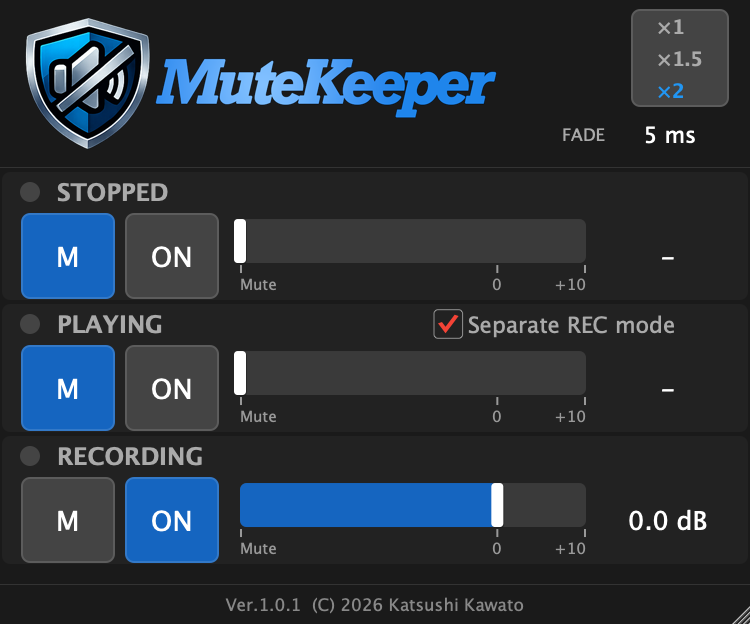
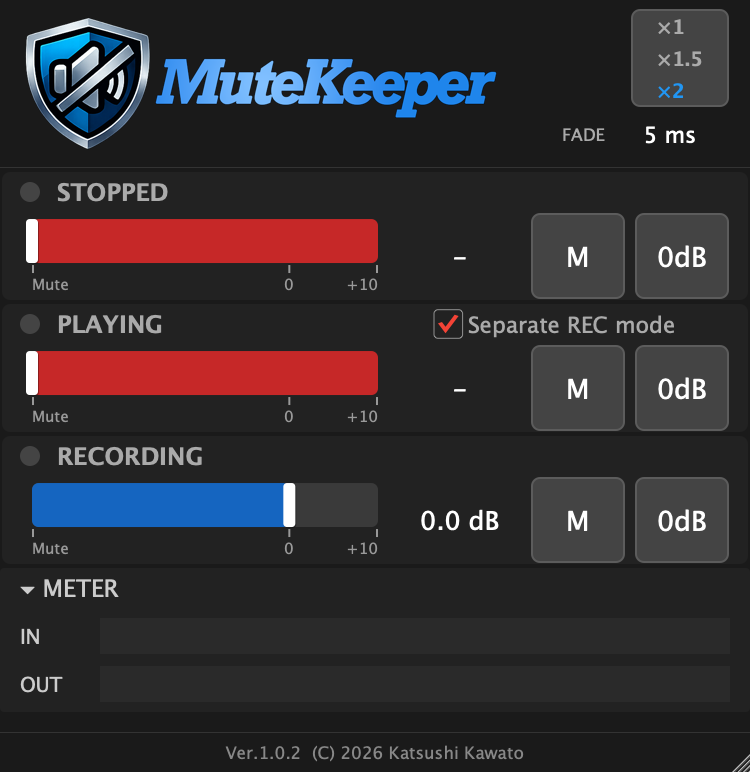
docs: sync site from MuteKeeper-dev

diff --git a/site/overrides/main.html b/site/overrides/main.html
@@ -17,8 +17,8 @@
     },
     "license": "https://opensource.org/licenses/MIT",
     "url": "https://kawato3.github.io/MuteKeeper/",
-    "downloadUrl": "https://github.com/kawato3/MuteKeeper/releases/tag/v1.0.1",
-    "softwareVersion": "1.0.1",
+    "downloadUrl": "https://github.com/kawato3/MuteKeeper/releases/tag/v1.0.2",
+    "softwareVersion": "1.0.2",
     "author": {
       "@type": "Person",
       "name": "Katsushi Kawato"

diff --git a/site/index.en.md b/site/index.en.md
@@ -9,8 +9,8 @@ description: "Free VST3/AUv3 plugin that automatically controls volume based on 
 
 **Automatic volume control that responds to your DAW's transport state**
 
-[Download (macOS) :material-apple:](https://github.com/kawato3/MuteKeeper/releases/download/v1.0.0/MuteKeeper-1.0.0-macOS.dmg){ .md-button .md-button--primary }
-[Download (Windows) :material-microsoft-windows:](https://github.com/kawato3/MuteKeeper/releases/download/v1.0.1/MuteKeeper-1.0.1-Windows.exe){ .md-button .md-button--primary }
+[Download (macOS) :material-apple:](https://github.com/kawato3/MuteKeeper/releases/download/v1.0.2/MuteKeeper-1.0.2-macOS.dmg){ .md-button .md-button--primary }
+[Download (Windows) :material-microsoft-windows:](https://github.com/kawato3/MuteKeeper/releases/download/v1.0.2/MuteKeeper-1.0.2-Windows.exe){ .md-button .md-button--primary }
 
 </div>
 
@@ -50,6 +50,9 @@ Unlike simple mute switches, MuteKeeper offers **gradual volume control at any d
 :material-surround-sound: **Multi-Channel Support**
 :   Works with mono, stereo, surround (5.1 / 7.1), and any other multi-channel configuration.
 
+:material-chart-bar: **IN/OUT Level Meter**
+:   Visual input/output level monitoring. Collapsible section — show it only when you need it.
+
 :material-auto-fix: **Full DAW Automation**
 :   Every parameter supports DAW automation for complete control.
 
@@ -84,14 +87,14 @@ Keep the click track active during recording, then mute it when listening back. 
 
 ### macOS
 
-[Download MuteKeeper v1.0.0 :material-download:](https://github.com/kawato3/MuteKeeper/releases/download/v1.0.0/MuteKeeper-1.0.0-macOS.dmg){ .md-button .md-button--primary }
+[Download MuteKeeper v1.0.2 :material-download:](https://github.com/kawato3/MuteKeeper/releases/download/v1.0.2/MuteKeeper-1.0.2-macOS.dmg){ .md-button .md-button--primary }
 
 Open the DMG and run the installer.
 The VST3 plugin will be installed to `/Library/Audio/Plug-Ins/VST3/`, and the AUv3 plugin to `/Applications/MuteKeeper.app`.
 
 ### Windows
 
-[Download MuteKeeper v1.0.1 :material-download:](https://github.com/kawato3/MuteKeeper/releases/download/v1.0.1/MuteKeeper-1.0.1-Windows.exe){ .md-button .md-button--primary }
+[Download MuteKeeper v1.0.2 :material-download:](https://github.com/kawato3/MuteKeeper/releases/download/v1.0.2/MuteKeeper-1.0.2-Windows.exe){ .md-button .md-button--primary }
 
 Run the installer.
 The VST3 plugin will be installed to `C:\Program Files\Common Files\VST3\`.
